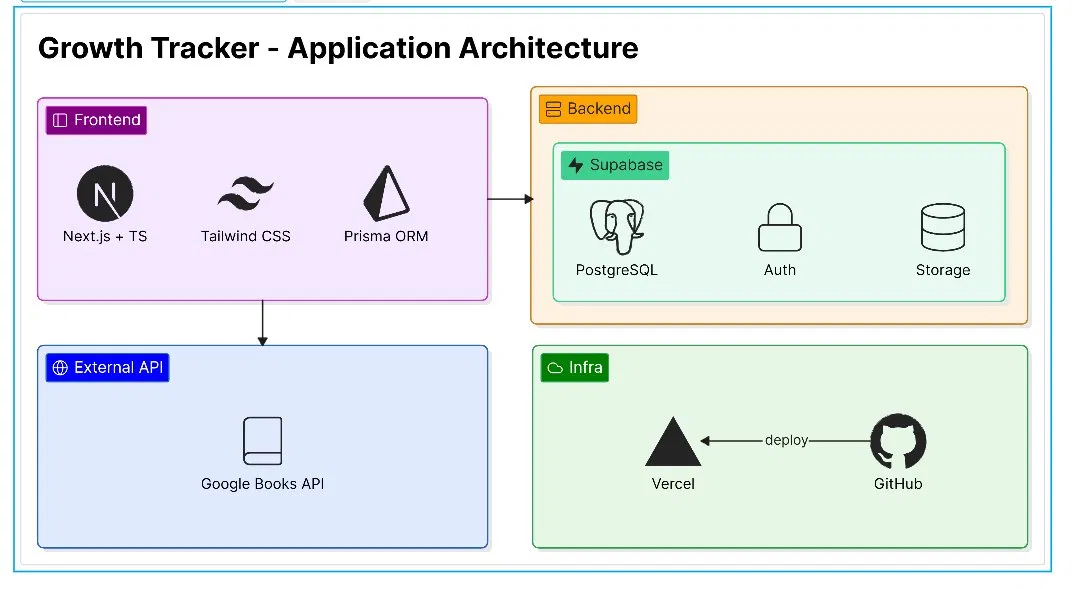
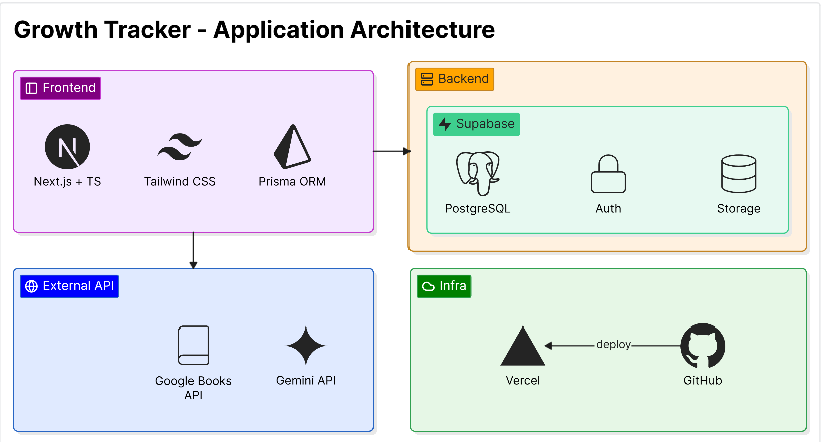
docs: READMEとアーキテクチャ図・技術選定にGemini APIを追加

diff --git a/README.md b/README.md
@@ -1,55 +1,46 @@
 # Growth Tracker 🌱
-
 読書・学習時間を一元管理し、自己成長を可視化するWebアプリ。
 
 ## デモ
-
 - **URL:** https://growth-tracker-kohl.vercel.app/login
 - **メール:** demodemo@email.com
 - **パスワード:** demodemo@email.com
-
 > ⚠ デモアカウントは共有です。個人情報は入力しないでください。
 
 ---
 
 ## 概要
-
 ### ターゲット
-
 読書や学習を習慣化したいが、記録が続かない人。
 
 ### 課題
-
 - 読書記録と学習記録がバラバラで一元管理できない
 - 継続できているかどうか可視化されていない
 - メモや気づきを後から見返せない（どこにメモしていたかわからなくなる）
 
 ### 解決策
-
 - 読書・学習を1つのアプリで記録し、ダッシュボードで成長を可視化する。
 - 書籍ごとにメモ・タグ管理もできるので、後から振り返りやすい。
 
 ---
 
 ## 機能
-
 - **認証:** メールアドレス・Googleアカウントでのログイン
 - **ダッシュボード:** 今月の学習時間・今月の読書冊数・連続学習日数・総学習時間
 - **読書管理:** 書籍検索（Google Books API）・本棚登録・読書ステータス管理
 - **メモ・タグ:** 書籍ごとのメモ作成・タグ付け・重要メモ一覧
 - **学習記録:** タイマー・手動入力でカテゴリ別に学習時間を記録
+- **AI機能:** 本棚の書籍をもとにおすすめ書籍をレコメンド・学習記録をもとに学習アドバイスを提供
 - **プロフィール:** アカウント名・表示名・アバター画像の設定
 
 ---
 
 ## アーキテクチャ図
-
 ![アーキテクチャ図](docs/images/architecture.png)
 
 ---
 
 ## ER図
-
 ```mermaid
 erDiagram
   users {
@@ -133,7 +124,7 @@ erDiagram
     timestamp created_at
     timestamp updated_at
   }
-  
+
   users ||--|| profiles : "user_id"
   profiles ||--o{ user_books : "profile_id"
   books ||--o{ user_books : "book_id"
@@ -148,28 +139,27 @@ erDiagram
 ---
 
 ## 技術スタック
-
 | カテゴリ | 技術 |
 | --- | --- |
 | フロントエンド | Next.js 16 / TypeScript / Tailwind CSS v4 |
 | バックエンド | Supabase（Auth・DB・Storage）/ Prisma ORM |
+| AI | Gemini API（gemini-3.6-flash） |
 | グラフ | Recharts |
 | デプロイ | Vercel |
 
 ---
 
 ## 外部API
-
 | API | 用途 |
 | --- | --- |
 | Google Books API | 書籍検索・書影取得 |
 | Supabase Auth | メール・Google認証 |
 | Supabase Storage | アバター画像の保存 |
+| Gemini API | おすすめ書籍レコメンド・学習アドバイス生成 |
 
 ---
 
 ## ローカル開発
-
 ```bash
 git clone https://github.com/Rio-Sasaki/Growth-Tracker.git
 cd Growth-Tracker
@@ -177,15 +167,14 @@ npm install
 ```
 
 `.env.local` を作成して以下の環境変数を設定してください。
-
 ```
 NEXT_PUBLIC_SUPABASE_URL=
 NEXT_PUBLIC_SUPABASE_ANON_KEY=
 NEXT_PUBLIC_GOOGLE_BOOKS_API_KEY=
+GEMINI_API_KEY=
 ```
 
 `.env` を作成して以下の環境変数を設定してください。
-
 ```
 DATABASE_URL=
 DIRECT_URL=

diff --git a/docs/technology.md b/docs/technology.md
@@ -29,6 +29,7 @@
 | 技術 | 選定理由 |
 |---|---|
 | Google Books API | 書籍検索に使用。無料で利用可能であるため |
+| Gemini API | 日本語との親和性が高く、無料枠で利用可能なため。書籍レコメンド・学習アドバイス生成に使用 |
 
 ### Infra / CI/CD
 
